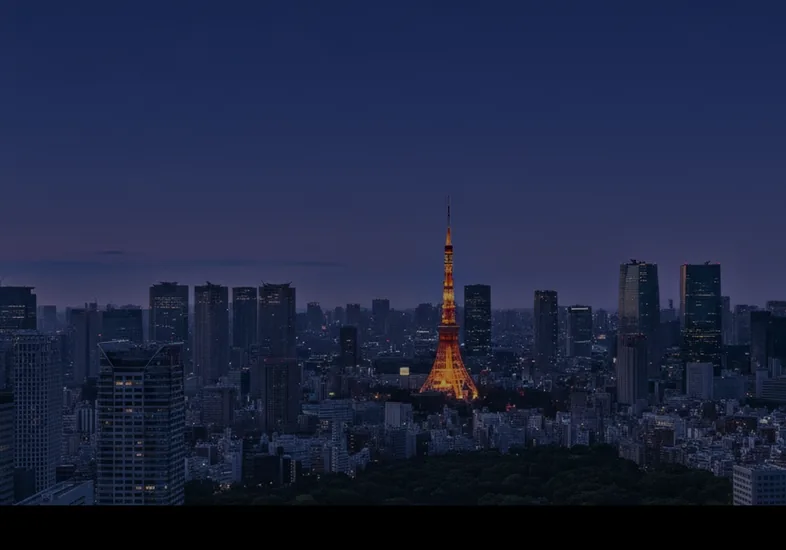
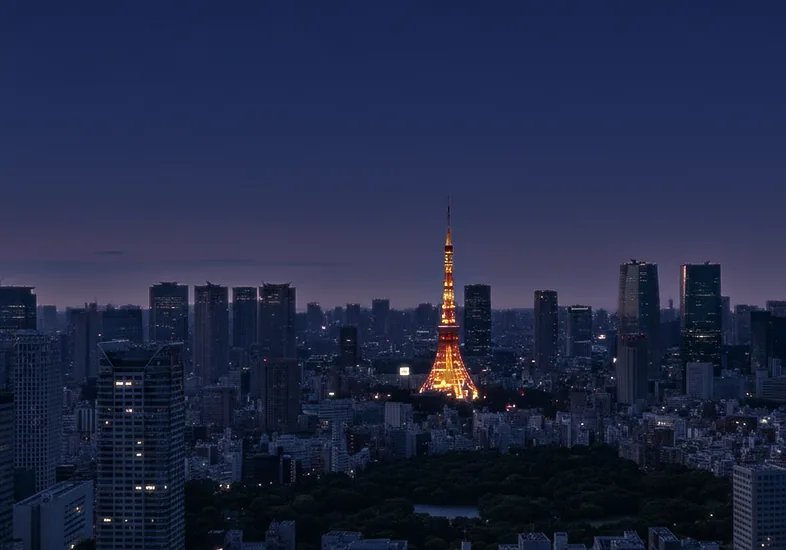
写真の手直し：朝は光の消えた街（夜明けの絵を追加）、夜は窓の光を足す、昼の点いた窓を消す
届いた4枚は画素単位で同じ構図なので、空と街を分けて合成した（構図・切り抜き・解像度は変えない）
- dawn（夜明け）：薄暮の空に、昼の街を暗く青くしたもの（光は消えている）。朝の混ぜ方は 夜 → 夜明け → 昼 にし、
  夕方の絵（明かりの点いた薄暮・夕焼け）は朝に使わない
- night（夜）：明るい方の元（1024）に、薄暮の街の窓の光・にじみ・地平線の街明かりを足した
- day（昼）：街の小さな暖色の光（点いている窓）を周りの色で埋めた。東京タワーの色は残す
- 重ねた写真の不透明度を layerOpacity で決める（下から順に重ねても重みどおりの混色になり、途中で地の色が透けない）
- <head> の最初の計算も同じ混ぜ方に。帯の色（SKY_TOP など）に dawn と新しい夜の値を足した。テスト 60

PC の見た目は変えていない（本番との差分 0px）

Claude-Session: https://claude.ai/code/session_01VXta14VyGyHnimiy8JAqdH

diff --git a/lib/app/sky-vars.ts b/lib/app/sky-vars.ts
@@ -3,14 +3,22 @@
 // 変数は <html> に置く：(1) 最初に描く前に <head> の小さなスクリプト（SKY_HEAD_SCRIPT）が入れ、(2) 表示中は useSkyClock が
 // 1分ごと・復帰時・日時の固定（#t=）の変化で入れ直す。React は変数の値を描かないので、サーバーで作った HTML と食い違わず
 // （Hydration の問題が出ない）、夜に開いても昼の空が一瞬出ない
-import { blend, HOME_CAMERA, light, lightX, overrideTime, projectSun, SKY_HORIZON, SKY_MID, SKY_TOP, solar, type Light } from "./sun";
+import { blend, HOME_CAMERA, layerOpacity, light, lightX, overrideTime, PHOTO_ORDER, projectSun, SKY_HORIZON, SKY_MID, SKY_TOP, solar, type Light } from "./sun";
 
 /** 空の変数の名前と意味 */
 export const SKY_VARS = {
+  /** 写真の混ぜ方（重み。合計 1） */
   day: "--sky-day",
   golden: "--sky-golden",
   twilight: "--sky-twilight",
+  dawn: "--sky-dawn",
   night: "--sky-night",
+  /** 重ねた写真それぞれの不透明度（lib/app/sun.ts の layerOpacity。下から night, twilight, dawn, golden, day） */
+  lNight: "--sky-l-night",
+  lTwilight: "--sky-l-twilight",
+  lDawn: "--sky-l-dawn",
+  lGolden: "--sky-l-golden",
+  lDay: "--sky-l-day",
   /** 写真の上端・中ほど・地平線の近くの色（時刻・電池の帯と、各ページの帯のグラデーション） */
   top: "--sky-top",
   mid: "--sky-mid",
@@ -42,11 +50,14 @@ export function skyValues(at: Date): { vars: Record<string, string>; light: Ligh
   const b = blend(s.altitude, s.rising);
   const l = light(s.altitude, s.rising, b);
   const sun = projectSun(s, HOME_CAMERA);
+  const lo = layerOpacity(b);
   const vars: Record<string, string> = {
     [SKY_VARS.day]: b.day.toFixed(3),
     [SKY_VARS.golden]: b.golden.toFixed(3),
     [SKY_VARS.twilight]: b.twilight.toFixed(3),
+    [SKY_VARS.dawn]: b.dawn.toFixed(3),
     [SKY_VARS.night]: b.night.toFixed(3),
+    ...Object.fromEntries(PHOTO_ORDER.map((k) => [`--sky-l-${k}`, lo[k].toFixed(3)])),
     [SKY_VARS.top]: l.top,
     [SKY_VARS.mid]: l.mid,
     [SKY_VARS.horizon]: l.horizon,
@@ -92,18 +103,19 @@ var sa=Math.sin(lat*P)*Math.sin(dec)+Math.cos(lat*P)*Math.cos(dec)*Math.cos(ha),
 var hh=h<0?0:h,r=1.02/Math.tan((hh+10.26/(hh+5.1))*P)/60;
 var ac=(Math.sin(lat*P)*Math.cos(zen)-Math.sin(dec))/(Math.cos(lat*P)*Math.sin(zen)),a=Math.acos(Math.max(-1,Math.min(1,ac)))/P,az=ha>0?(a+180)%360:(540-a)%360;
 return[h+r,ha<0,az]}
-function blend(a,up){var b={day:0,golden:0,twilight:0,night:0};
+function blend(a,up){var b={day:0,golden:0,twilight:0,dawn:0,night:0};
 if(!up){if(a>=0){b.day=ss(0,10,a);b.golden=1-b.day}else if(a>=-6){b.golden=ss(-6,0,a);b.twilight=1-b.golden}else{b.twilight=ss(-12,-6,a);b.night=1-b.twilight}}
-else if(a>=0){b.day=ss(0,10,a);b.twilight=1-b.day}else if(a>=-6){b.twilight=ss(-6,0,a);b.night=1-b.twilight}else b.night=1;return b}
+else if(a>=0){b.day=ss(0,10,a);b.dawn=1-b.day}else if(a>=-6){b.dawn=ss(-6,0,a);b.night=1-b.dawn}else b.night=1;return b}
 function mix(c,b){var o=[0,0,0],k;for(k in b)for(var i=0;i<3;i++)o[i]+=c[k][i]*b[k];return o}
 function hex(c){var s="#";for(var i=0;i<3;i++){var v=Math.round(Math.min(255,Math.max(0,c[i]))).toString(16);s+=(v.length<2?"0":"")+v}return s}
 function at(){var m=location.hash.replace(/^#/,"").match(/(?:^|&)t=([^&]+)/);if(m){var v=decodeURIComponent(m[1]),d=new Date(/[zZ]|[+-]\\d\\d:?\\d\\d$/.test(v)?v:v+(v.length<=10?"T12:00":"")+"+09:00");if(!isNaN(d.getTime()))return d}return new Date()}
 var s=sun(at()),a=s[0],up=s[1],az=s[2],b=blend(a,up),top=mix(T,b);
 var lum=(0.2126*top[0]+0.7152*top[1]+0.0722*top[2])/255,dark=lum<0.42;
-var near=Math.exp(-((a+1)*(a+1))/(2*4.5*4.5)),warm=a<8&&a>-8?ss(8,0,a)*(1-ss(-2,-8,a)):0,n=b.night+0.5*b.twilight;
+var near=Math.exp(-((a+1)*(a+1))/(2*4.5*4.5)),warm=a<8&&a>-8?ss(8,0,a)*(1-ss(-2,-8,a)):0,n=b.night+0.5*(b.twilight+b.dawn);
 var hl=[0,1,2].map(function(i){return [255,255,255][i]*(1-warm)*(1-n)+[255,222,160][i]*warm*(1-n)+[190,208,245][i]*n});
 var st=document.documentElement.style,set=function(k,v){st.setProperty(k,v)};
-set(V.day,b.day.toFixed(3));set(V.golden,b.golden.toFixed(3));set(V.twilight,b.twilight.toFixed(3));set(V.night,b.night.toFixed(3));
+set(V.day,b.day.toFixed(3));set(V.golden,b.golden.toFixed(3));set(V.twilight,b.twilight.toFixed(3));set(V.dawn,b.dawn.toFixed(3));set(V.night,b.night.toFixed(3));
+var O=["night","twilight","dawn","golden","day"],sm=0;for(var j=0;j<O.length;j++){sm+=b[O[j]];set("--sky-l-"+O[j],(sm>0?b[O[j]]/sm:0).toFixed(3))}
 set(V.top,hex(top));set(V.mid,hex(mix(MD,b)));set(V.horizon,hex(mix(HZ,b)));set(V.glow,up?"#ffd6aa":"#ffb278");set(V.glowA,near.toFixed(2));set(V.hl,hex(hl));
 set(V.ink,dark?"255,255,255":"15,27,51");set(V.inkSoft,dark?"232,238,248":"38,50,74");set(V.halo,dark?"0,12,40":"255,255,255");
 set(V.dark,dark?"1":"0");set(V.nightness,n.toFixed(2));set(V.lightX,String(Math.round(Math.min(100,Math.max(0,(az-60)/240*100)))));set(V.sunIn,"0");

diff --git a/lib/app/sun.ts b/lib/app/sun.ts
@@ -67,15 +67,16 @@ export function smoothstep(a: number, b: number, x: number): number {
 }
 
 /** 街の写真4枚の混ぜ方（合計 1）。昼・夕方・薄暮・夜 */
-export type Blend = { day: number; golden: number; twilight: number; night: number };
+export type Blend = { day: number; golden: number; twilight: number; dawn: number; night: number };
 
 /**
  * 太陽の高度と「昇っているか」から、写真の混ぜ方を決める（時刻では決めない）。
  * 夕方（沈む）：+10°以上 昼 → 0° 夕方 → −6° 薄暮 → −12° 夜。
- * 朝（昇る）：−6°以下 夜 → 0° 薄暮 → +10° 昼。夕方の絵は夜明けには使わない（朝と夕方で同じ高度でも色が違う）
+ * 朝（昇る）：−6°以下 夜 → 0° 夜明け（dawn：薄暮の空に、光の消えた街） → +10° 昼。
+ * 夕方の絵（街に明かりが点いている薄暮・夕焼け）は夜明けには使わない（朝と夕方で同じ高度でも色が違う）
  */
 export function blend(altitude: number, rising: boolean): Blend {
-  const b: Blend = { day: 0, golden: 0, twilight: 0, night: 0 };
+  const b: Blend = { day: 0, golden: 0, twilight: 0, dawn: 0, night: 0 };
   if (!rising) {
     if (altitude >= 0) {
       b.day = smoothstep(0, 10, altitude);
@@ -89,14 +90,31 @@ export function blend(altitude: number, rising: boolean): Blend {
     }
   } else if (altitude >= 0) {
     b.day = smoothstep(0, 10, altitude);
-    b.twilight = 1 - b.day;
+    b.dawn = 1 - b.day;
   } else if (altitude >= -6) {
-    b.twilight = smoothstep(-6, 0, altitude);
-    b.night = 1 - b.twilight;
+    b.dawn = smoothstep(-6, 0, altitude);
+    b.night = 1 - b.dawn;
   } else {
     b.night = 1;
   }
   return b;
+}
+
+/** 写真の重ね順（下から上）。components/app/sky.tsx はこの順に重ねる */
+export const PHOTO_ORDER = ["night", "twilight", "dawn", "golden", "day"] as const;
+
+/**
+ * 重ねた写真それぞれの不透明度。混ぜ方（合計 1）をそのまま不透明度にすると、重なった所で下の地が透けて薄くなるので、
+ * 下から k 枚目は「k 枚目までの重みの合計に対する自分の重み」にする（下の1枚は 1）。こうすると合成の色が重みどおりの混色になる
+ */
+export function layerOpacity(b: Blend): Record<keyof Blend, number> {
+  const out = { day: 0, golden: 0, twilight: 0, dawn: 0, night: 0 };
+  let sum = 0;
+  for (const k of PHOTO_ORDER) {
+    sum += b[k];
+    out[k] = sum > 0 ? b[k] / sum : 0;
+  }
+  return out;
 }
 
 type RGB = [number, number, number];
@@ -105,6 +123,7 @@ export const SKY_TOP: Record<keyof Blend, RGB> = {
   day: [123, 185, 232],
   golden: [150, 154, 183],
   twilight: [116, 116, 153],
+  dawn: [116, 116, 153],
   night: [24, 38, 79],
 };
 /** 空の中ほど（見出しの後ろ）と地平線の近くの色。各ページの帯のグラデーションに使う */
@@ -112,13 +131,15 @@ export const SKY_MID: Record<keyof Blend, RGB> = {
   day: [176, 215, 239],
   golden: [212, 170, 162],
   twilight: [173, 135, 151],
-  night: [40, 50, 90],
+  dawn: [173, 135, 151],
+  night: [41, 50, 91],
 };
 export const SKY_HORIZON: Record<keyof Blend, RGB> = {
   day: [191, 204, 218],
   golden: [202, 160, 137],
   twilight: [174, 128, 132],
-  night: [50, 54, 83],
+  dawn: [175, 130, 137],
+  night: [67, 65, 90],
 };
 
 const mix = (cols: Record<keyof Blend, RGB>, b: Blend): RGB => {
@@ -164,7 +185,7 @@ export function light(altitude: number, rising: boolean, b: Blend = blend(altitu
   const glowColor: RGB = rising ? [255, 214, 170] : [255, 178, 120];
   // ガラスの縁：昼は白、夕方・朝は金、夜は青み
   const warm = altitude < 8 && altitude > -8 ? smoothstep(8, 0, altitude) * (1 - smoothstep(-2, -8, altitude)) : 0;
-  const nightness = b.night + 0.5 * b.twilight;
+  const nightness = b.night + 0.5 * (b.twilight + b.dawn);
   const white: RGB = [255, 255, 255];
   const gold: RGB = [255, 222, 160];
   const blue: RGB = [190, 208, 245];

diff --git a/lib/app/sun.test.ts b/lib/app/sun.test.ts
@@ -1,5 +1,5 @@
 import { describe, expect, it } from "vitest";
-import { blend, BASE, HOME_CAMERA, light, overrideTime, projectSun, solar } from "./sun";
+import { BASE, blend, HOME_CAMERA, layerOpacity, light, overrideTime, PHOTO_ORDER, projectSun, solar } from "./sun";
 
 // 国立天文台「こよみの計算」東京（35.6581, 139.7414）2026年の日の出入り・南中（分と 0.1° に丸めた値）
 const NAOJ = { lat: 35.6581, lng: 139.7414, utcOffset: 540 };
@@ -64,7 +64,7 @@ describe("blend（写真の混ぜ方）", () => {
     for (const rising of [true, false])
       for (let alt = -30; alt <= 90; alt += 0.5) {
         const b = blend(alt, rising);
-        const sum = b.day + b.golden + b.twilight + b.night;
+        const sum = b.day + b.golden + b.twilight + b.dawn + b.night;
         expect(Math.abs(sum - 1)).toBeLessThan(1e-9);
         for (const v of Object.values(b)) expect(v).toBeGreaterThanOrEqual(0);
       }
@@ -79,7 +79,30 @@ describe("blend（写真の混ぜ方）", () => {
     const morning = blend(4, true);
     expect(evening.golden).toBeGreaterThan(0);
     expect(morning.golden).toBe(0);
-    expect(morning.twilight).toBeGreaterThan(0);
+    expect(morning.twilight).toBe(0);
+    expect(morning.dawn).toBeGreaterThan(0);
+    // 夜明け前の薄明は dawn、夕方の薄明は twilight
+    expect(blend(-3, true).dawn).toBeGreaterThan(0);
+    expect(blend(-3, true).twilight).toBe(0);
+    expect(blend(-3, false).twilight).toBeGreaterThan(0);
+    expect(blend(-3, false).dawn).toBe(0);
+  });
+  it("重ねた写真の不透明度は、重みどおりの混色になる", () => {
+    for (const rising of [true, false])
+      for (let alt = -14; alt <= 12; alt += 0.7) {
+        const b = blend(alt, rising);
+        const o = layerOpacity(b);
+        // 下から順に重ねたときの合成の重みを求め、blend の重みと比べる
+        let acc = 0;
+        const got: Record<string, number> = {};
+        for (const k of PHOTO_ORDER) {
+          for (const j of Object.keys(got)) got[j] *= 1 - o[k];
+          got[k] = o[k];
+          acc = acc * (1 - o[k]) + o[k];
+        }
+        for (const k of PHOTO_ORDER) expect(Math.abs(got[k] - b[k])).toBeLessThan(1e-9);
+        expect(Math.abs(acc - 1)).toBeLessThan(1e-9);
+      }
   });
   it("境界で連続している（0° と −6° の前後で飛ばない）", () => {
     for (const rising of [true, false])
@@ -156,7 +179,7 @@ describe("SKY_HEAD_SCRIPT（最初に描く前の簡単な計算）", () => {
         };
         vm.runInNewContext(SKY_HEAD_SCRIPT, ctx);
         const ref = skyValues(d).vars;
-        for (const key of ["--sky-day", "--sky-golden", "--sky-twilight", "--sky-night"]) worst = Math.max(worst, Math.abs(Number(store[key]) - Number(ref[key])));
+        for (const key of ["--sky-day", "--sky-golden", "--sky-twilight", "--sky-dawn", "--sky-night", "--sky-l-night", "--sky-l-twilight", "--sky-l-dawn", "--sky-l-golden", "--sky-l-day"]) worst = Math.max(worst, Math.abs(Number(store[key]) - Number(ref[key])));
         // 字を白にする境目（上端の明るさ 0.42）のすぐ近くでは、わずかな高度の差で結果が分かれてよい
         const top = ref["--sky-top"].match(/[0-9a-f]{2}/g)!.map((h) => parseInt(h, 16));
         const lum = (0.2126 * top[0] + 0.7152 * top[1] + 0.0722 * top[2]) / 255;

diff --git a/components/app/sky.tsx b/components/app/sky.tsx
@@ -3,6 +3,7 @@
 // 時間連動の空（ホームの帯・各ページの帯）。天体の計算は lib/app/sun.ts、CSS 変数は lib/app/sky-vars.ts。
 // ここは描く側：写真4枚（昼・夕方・薄暮・夜）の重ね、地平線の光、各ページの帯の空の色、スクロールで縮む帯の仕組み。
 // 太陽本体は、写真のカメラの向き・画角が設定されるまで描かない（--sun-in が 1 のときだけ）
+import { PHOTO_ORDER } from "@/lib/app/sun";
 import { useEffect, type CSSProperties, type ReactNode, type RefObject } from "react";
 import { applySky } from "@/lib/app/sky-vars";
 import { PhoneImg } from "./frame";
@@ -91,7 +92,8 @@ function writeShrink(el: HTMLElement, scroll: number | null, compact: boolean | 
   else if (compact === false) delete el.dataset.compact;
 }
 
-const PHOTOS = ["day", "golden", "twilight", "night"] as const;
+/** 写真の重ね順（下から上）。不透明度は --sky-l-* （lib/app/sun.ts の layerOpacity） */
+const PHOTOS = PHOTO_ORDER;
 
 /**
  * ホームの帯の写真（幅393×高さ275pt の切り抜き。public/home/sky）。4枚を重ね、不透明度を空の変数で混ぜる。
@@ -110,7 +112,7 @@ export function SkyPhotos() {
           height={550}
           draggable={false}
           className="sky-layer absolute inset-0 h-full w-full object-cover"
-          style={{ opacity: `var(--sky-${k}, ${k === "day" ? 1 : 0})` }}
+          style={{ opacity: `var(--sky-l-${k}, ${k === "day" ? 1 : 0})` }}
         />
       ))}
       {/* 太陽本体（カメラの向き・画角を設定したときだけ。建物の後ろに隠れるよう、空のマスクの中だけに描く） */}

diff --git a/docs/features.md b/docs/features.md
@@ -302,6 +302,7 @@
 53. **調査記録の書き出し・読み込み、保存の説明、地図の濃さ、レポートのプレビュー**（`lib/backup.ts`、`components/app/info.tsx` の `StorageSheet`、`components/full-map.tsx`、`components/app/app-sheets.tsx`）: 「その他」の「調査記録の書き出し・読み込み」。履歴・お気に入り・確認の記録・済んだ印を1つの JSON にまとめ、iPhone は共有シート、ほかはダウンロードで保存。読み込みは選んだファイルの書き出し日時・件数・最初の3件を見せてから、足すだけで入れる（上書きしない。同じ物件・同じ確認事項は新しい方）。Safari の「使った日が7日分たまる間に開かないと消える」条件とホーム画面のアプリとの保存場所の違いを、正確な言い方で説明する。
     - 全画面の地図：「重ねた色の濃さ」のつまみ（用途地域・道路種別・ハザードの元の不透明度に掛ける）。
     - レポートの画面：入れる項目（要注意点・道路・都市計画・地番・ハザード・建物・地価・駅・学区・施設）を選びながら文面をその場で見る。共有・コピー・重説の下書きに効く（印刷の調査メモは全項目）。
+    - 写真の手直し（`public/home/sky`。元は届いた4枚。画素単位で同じ構図なので空と街を分けて合成）：昼は街の点いている窓を消す。夜明け（`dawn`）は薄暮の空に、光の消えた街（昼の街を暗く青く）を合わせたもので、朝の混ぜ方（夜 → 夜明け → 昼）に使う（夕方の絵は朝に使わない）。夜は明るい方の元（1024）に、薄暮の街の窓の光とにじみ、地平線の街明かりを足した。重ねた写真の不透明度は `layerOpacity`（下から順に重ねても重みどおりの混色になる）。
     - 保留：季節の写真、太陽本体（カメラ設定の後）、実機での色の調整、ログイン・会社での共有（記録の形は共有できるように作ってある）。
 
 ## Won't（今は作らない）
